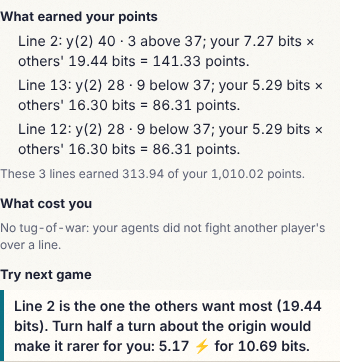
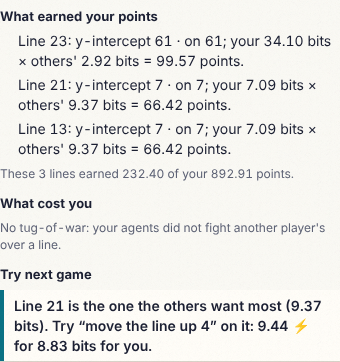
End summary: advice that fits practice partners; a move named in quotes
Claude-Session: https://claude.ai/code/session_0119hWTTneiee5zMGReiz7sy

diff --git a/lib/v2-views/src/summary.tsx b/lib/v2-views/src/summary.tsx
@@ -30,6 +30,8 @@ export interface SummaryTug {
   readonly flips: number;
   /** The energy the player's agents spent on it. */
   readonly mySpend: number;
+  /** Every other side is a practice partner (they do not read chat). */
+  readonly practice?: boolean;
 }
 
 export interface SummaryInput<S> {
@@ -83,12 +85,13 @@ export function summarise<S>(input: SummaryInput<S>): Summary {
   // One thing to try: the dearest tug-of-war's other side, by name; else the most wanted object made rarer for you.
   let next: string;
   const top = tugs[0];
-  if (top) next = `Talk to ${top.withNames[0] ?? "the other player"} about ${noun} ${top.number} before your agents pull it: you both want it.`;
+  if (top && top.practice) next = `Next game, tell your agent to leave ${noun} ${top.number} to ${names(top.withNames)}: it cost you ${fmtEnergy(top.mySpend)}, and practice partners do not read chat.`;
+  else if (top) next = `Talk to ${top.withNames[0] ?? "the other player"} about ${noun} ${top.number} before your agents pull it: you both want it.`;
   else {
     const wanted = [...input.objects].sort((a, b) => b.want - a.want)[0];
     const m = wanted ? moves(rule, wanted.state, input.value ?? null, { k: 1 })[0] : undefined;
     next = wanted && m
-      ? `${Noun} ${wanted.number} is the one the others want most (${fmtBits(wanted.want)}). ${cap(m.words)} would make it rarer for you: ${fmtEnergy(m.price.total)}${m.bits !== null ? ` for ${fmtBits(m.bits)}` : ""}.`
+      ? `${Noun} ${wanted.number} is the one the others want most (${fmtBits(wanted.want)}). Try “${m.words}” on it: ${fmtEnergy(m.price.total)}${m.bits !== null ? ` for ${fmtBits(m.bits)} for you` : ""}.`
       : `Open your secret goal before the world starts and find one ${noun} that is nearly what your rule wants.`;
   }
   return { noun, earned, earnedNote, costs, costNote, next };

diff --git a/lib/v2-views/test/summary.test.tsx b/lib/v2-views/test/summary.test.tsx
@@ -51,7 +51,10 @@ test("one thing to try next game: talk to whoever pulled hardest against you, ab
   assert.match(summarise(base).next, /^Talk to Ada about line 4 before your agents pull it: you both want it\.$/);
   // No tug-of-war: make the most wanted line rarer for you, with the move that does it and its price.
   const calm = summarise({ ...base, tugs: [] });
-  assert.match(calm.next, /^Line 4 is the one the others want most \(7\.55 bits\)\. .+ would make it rarer for you: [\d.]+ ⚡( for [\d.]+ bits)?\.$/, calm.next);
+  assert.match(calm.next, /^Line 4 is the one the others want most \(7\.55 bits\)\. Try “.+” on it: [\d.]+ ⚡( for [\d.]+ bits for you)?\.$/, calm.next);
+  // Practice partners do not read chat: the advice is about your own agent instead.
+  const practice = summarise({ ...base, tugs: base.tugs.map(t => ({ ...t, practice: true })) });
+  assert.match(practice.next, /^Next game, tell your agent to leave line 4 to Ada: it cost you 28\.86 ⚡, and practice partners do not read chat\.$/, practice.next);
 });
 
 test("the component: three short sections, no steps, the noun of the object type; a grid says grid", () => {

diff --git a/artifacts/player-web/src/panes/results.tsx b/artifacts/player-web/src/panes/results.tsx
@@ -102,7 +102,11 @@ function EndSummary({ total }: { total: number }) {
     if (!my || !header) return null;
     const objs = objects.flatMap(o => (o?.value ? [{ number: o.number, state: decodeState(o.state, header.variant), points: o.value.points, bits: o.value.rarityBits, want: o.value.want }] : []));
     const tugs: SummaryTug[] = foldTugs(moves.results).flatMap(i => (i.kind === "tug"
-      ? [{ number: i.number, withNames: [...new Set(i.moves.filter(m => !m.mine && m.by).map(m => m.by!.name))], flips: i.flips, mySpend: i.mySpend }]
+      ? [(() => {
+        const others = [...new Map(i.moves.filter(m => !m.mine && m.by).map(m => [m.by!.memberId, m.by!.name])).entries()];
+        const practice = others.length > 0 && others.every(([id]) => header.roster.find(r => r.memberId === id)?.kind === "practice");
+        return { number: i.number, withNames: others.map(([, n]) => n), flips: i.flips, mySpend: i.mySpend, practice };
+      })()]
       : []));
     return summarise({ rule: my.rule as never, value: my.bits ?? undefined, objects: objs as never, tugs, total });
   }, [my, header, objects, moves.results, total]);

diff --git a/artifacts/player-web/e2e/v2-line-game.ts b/artifacts/player-web/e2e/v2-line-game.ts
@@ -222,7 +222,7 @@ try {
     const said = await summary.innerText();
     assert.match(said, /What earned your points/);
     assert.match(said, /What cost you/);
-    assert.match(said, /(Talk to .+ about line \d+|is the one the others want most|Open your secret goal)/, said);
+    assert.match(said, /(Talk to .+ about line \d+|tell your agent to leave line \d+|is the one the others want most|Open your secret goal)/, said);
     await summary.screenshot({ path: path.join(shots, `game-${label}-summary.png`) });
     // The results say what a total is, and step to the line-by-line list.
     await results.getByTestId("text-results-note").getByText(/Each total is the sum of that player's points on every line\./).waitFor();

diff --git a/artifacts/player-web/e2e/v2-grid-game.ts b/artifacts/player-web/e2e/v2-grid-game.ts
@@ -252,7 +252,7 @@ try {
     const summed = await summary.innerText();
     assert.match(summed, /What earned your points/);
     assert.match(summed, /What cost you/);
-    assert.match(summed, /(Talk to .+ about grid \d+|is the one the others want most|Open your secret goal)/, summed);
+    assert.match(summed, /(Talk to .+ about grid \d+|tell your agent to leave grid \d+|is the one the others want most|Open your secret goal)/, summed);
     await summary.screenshot({ path: path.join(shots, `grid-${label}-summary.png`) });
     await assertNoLineWord(page, `${label}: the results`);
     // The results say what a total is, and step to the line-by-line list.
